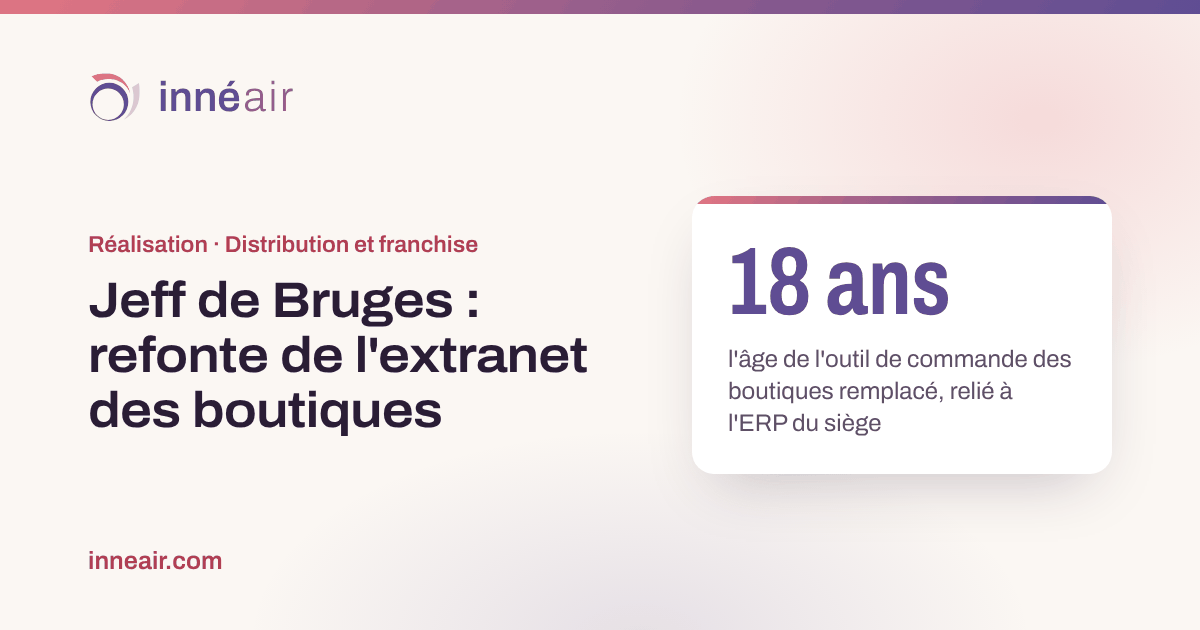
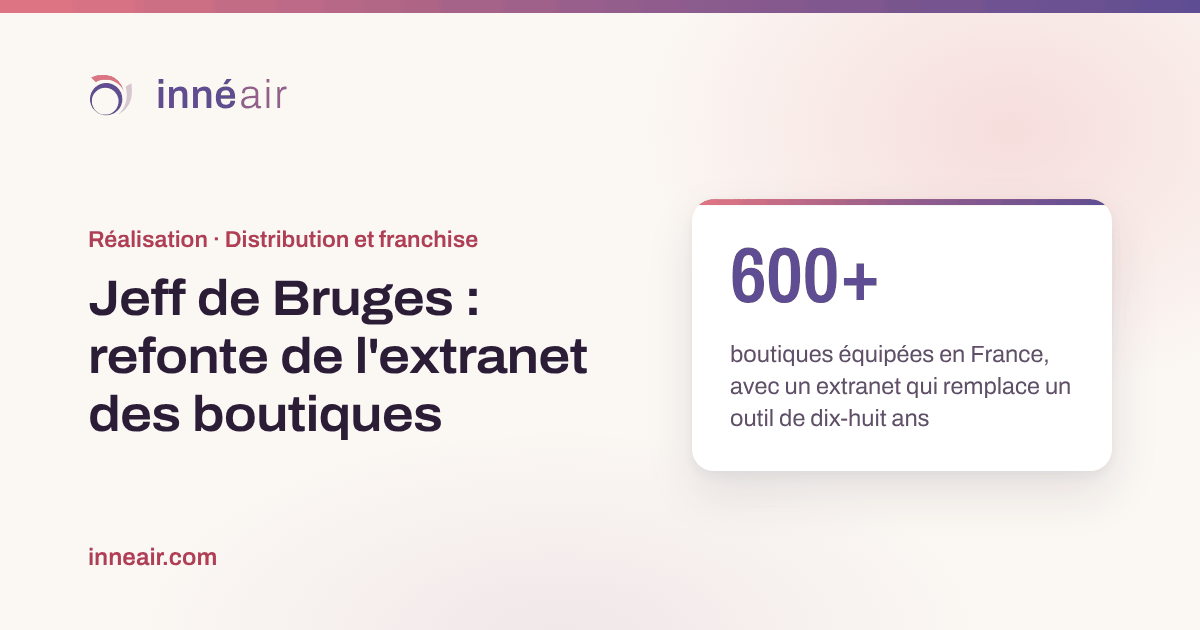
feat: align the Jeff de Bruges case with the corrected valorisation
- Role: Innéair led four developers and supervised the others, reviewed and tested
  every merge request of the team, piloted mockup integration and accounts/rights.
- The "100 stores limit lifted" claim and the announced test coverage are removed;
  key figures are now 1 command instead of 5 to set up a workstation, 3 days to run
  tests on every merge request, and a 1-day median to merge the team's branches.
- Several business rules (not all) cited in the code.
- 600+ stores put forward on the card and preview image; the lead text states that
  Numendo delivered the extranet and announces this figure.

Claude-Session: https://claude.ai/code/session_01AzLCSSsoxGkjDysbMUSmbQ

diff --git a/realisations/jeff-de-bruges-extranet-boutiques.html b/realisations/jeff-de-bruges-extranet-boutiques.html
@@ -4,18 +4,18 @@
 	<meta charset="utf-8">
 	<meta name="viewport" content="width=device-width, initial-scale=1">
 	<title>Jeff de Bruges : refonte de l'extranet des boutiques | Innéair</title>
-	<meta name="description" content="Jeff de Bruges : Innéair a écrit le cœur métier du nouvel extranet de commande des boutiques, relié à l'ERP Dynamics AX, et piloté l'équipe de l'agence Numendo.">
+	<meta name="description" content="Jeff de Bruges : Innéair a écrit le cœur métier du nouvel extranet de commande des boutiques, relié à l'ERP Dynamics AX, et dirigé son équipe de développement pour l'agence Numendo.">
 	<link rel="canonical" href="https://inneair.com/realisations/jeff-de-bruges-extranet-boutiques.html">
 	<meta property="og:type" content="article">
 	<meta property="og:locale" content="fr_FR">
 	<meta property="og:site_name" content="Innéair">
 	<meta property="og:url" content="https://inneair.com/realisations/jeff-de-bruges-extranet-boutiques.html">
 	<meta property="og:title" content="Jeff de Bruges : refondre l'extranet de commande des boutiques, relié à l'ERP du siège">
-	<meta property="og:description" content="Jeff de Bruges : Innéair a écrit le cœur métier du nouvel extranet de commande des boutiques, relié à l'ERP Dynamics AX, et piloté l'équipe de l'agence Numendo.">
+	<meta property="og:description" content="Jeff de Bruges : Innéair a écrit le cœur métier du nouvel extranet de commande des boutiques, relié à l'ERP Dynamics AX, et dirigé son équipe de développement pour l'agence Numendo.">
 	<meta property="og:image" content="https://inneair.com/images/og/jeff-de-bruges.png">
 	<meta property="og:image:width" content="1200">
 	<meta property="og:image:height" content="630">
-	<meta property="og:image:alt" content="Jeff de Bruges : un outil de commande de 18 ans remplacé, relié à l&#x27;ERP du siège">
+	<meta property="og:image:alt" content="Jeff de Bruges : plus de 600 boutiques équipées en France, avec un extranet qui remplace un outil de dix-huit ans">
 	<meta name="twitter:card" content="summary_large_image">
 	<link rel="preload" href="/assets/fonts/archivo-latin.woff2" as="font" type="font/woff2" crossorigin>
 	<link rel="stylesheet" href="/assets/css/main.css">
@@ -30,7 +30,7 @@
 				"@type": "Article",
 				"@id": "https://inneair.com/realisations/jeff-de-bruges-extranet-boutiques.html#projet",
 				"headline": "Jeff de Bruges : refondre l'extranet de commande des boutiques, relié à l'ERP du siège",
-				"description": "Jeff de Bruges : Innéair a écrit le cœur métier du nouvel extranet de commande des boutiques, relié à l'ERP Dynamics AX, et piloté l'équipe de l'agence Numendo.",
+				"description": "Jeff de Bruges : Innéair a écrit le cœur métier du nouvel extranet de commande des boutiques, relié à l'ERP Dynamics AX, et dirigé son équipe de développement pour l'agence Numendo.",
 				"inLanguage": "fr-FR",
 				"datePublished": "2026-10-28",
 				"dateModified": "2026-10-28",
@@ -87,7 +87,7 @@
 				</nav>
 				<p class="projet-titre__secteur">Distribution et franchise, 2019</p>
 				<h1>Jeff de Bruges : refondre l'extranet de commande des boutiques, relié à l'ERP du siège</h1>
-				<p class="projet-titre__chapo">Les boutiques Jeff de Bruges, en grande majorité des franchises, commandaient leur réassort sur un extranet relié à l'ERP du siège, Microsoft Dynamics AX. En 2019, cet outil avait dix-huit ans, et Jeff de Bruges en avait confié la refonte à l'agence Numendo. D'avril à août 2019, Innéair a mené le développement de la nouvelle version au sein de l'équipe de l'agence et en a écrit le cœur métier. Livré par l'agence après l'intervention d'Innéair, le nouvel extranet sert aujourd'hui à plus de 600 boutiques.</p>
+				<p class="projet-titre__chapo">Les boutiques Jeff de Bruges, en grande majorité des franchises, commandaient leur réassort sur un extranet relié à l'ERP du siège, Microsoft Dynamics AX. En 2019, cet outil avait dix-huit ans, et Jeff de Bruges en avait confié la refonte à l'agence Numendo. D'avril à août 2019, Innéair a dirigé l'équipe de développement de la nouvelle version et en a écrit le cœur métier. Numendo a livré le nouvel extranet après l'intervention d'Innéair et annonce plus de 600 boutiques équipées en France.</p>
 			</div>
 		</div>
 
@@ -96,7 +96,7 @@
 			<dl class="fiche">
 				<div><dt>Client</dt><dd>Jeff de Bruges, réseau de chocolateries, via l'agence Numendo</dd></div>
 				<div><dt>Plateforme</dt><dd>L'extranet des boutiques et du siège&nbsp;: commandes de réassort, précommandes, dragées personnalisées, suivi des commandes, saisie du chiffre d'affaires&nbsp;; échanges avec l'ERP</dd></div>
-				<div><dt>Intervention d'Innéair</dt><dd>Pilotage du développement et rôle de Scrum Master, cœur métier des commandes, intégration et livraisons en recette</dd></div>
+				<div><dt>Intervention d'Innéair</dt><dd>Direction de l'équipe de développement et rôle de Scrum Master, cœur métier des commandes, intégration et livraisons en recette</dd></div>
 				<div class="fiche__large"><dt>Technologies</dt><dd><ul class="technos">
 					<li><span>Back-end</span> PHP, Symfony, Doctrine</li>
 					<li><span>Interface</span> Twig, TypeScript, Kendo UI</li>
@@ -112,19 +112,16 @@
 						<p><strong>5&nbsp;niveaux</strong>de priorité pour calculer le prix applicable à chaque magasin</p>
 					</aside>
 					<div class="etape__texte">
-						<p>Le cahier des charges décrivait l'ancien outil et numérotait ses règles de gestion. Innéair l'a annoté&nbsp;: ses commentaires rattachaient les sections aux user stories du backlog, ou posaient à son auteur des questions de règles. <strong>Dans le code, Innéair a cité l'identifiant des règles au point où elles s'appliquent</strong>, pour relier chaque comportement à la phrase qui le justifie.</p>
+						<p>Le cahier des charges décrivait l'ancien outil et numérotait ses règles de gestion. Innéair l'a annoté&nbsp;: ses commentaires rattachaient les sections aux user stories du backlog, ou posaient à son auteur des questions de règles. <strong>Dans le code, Innéair a cité l'identifiant de plusieurs de ces règles au point où elles s'appliquent</strong>, pour relier un comportement à la phrase qui le justifie.</p>
 						<p>Innéair a écrit le tunnel des commandes de réassort&nbsp;: le choix du bon de commande, les quantités et les minimums, les brouillons, puis l'envoi groupé selon les règles d'expédition des entrepôts. Une commande envoyée garde ses propres lignes et ses propres prix. Tant qu'elle reste un brouillon, elle reprend les changements du bon et signale au magasin les articles ajoutés ou retirés, une amélioration que Jeff de Bruges avait demandée. Avec un autre développeur, Innéair a aussi écrit le calcul du prix applicable à chaque magasin&nbsp;: sur cinq niveaux de priorité, il retient le prix propre au magasin ou, à défaut, celui de son groupe, jusqu'au tarif de référence.</p>
-						<p>Innéair a écrit les vues de ces fonctionnalités, côté boutiques comme côté siège, ainsi que la navigation de l'outil, ses menus et son fil d'Ariane&nbsp;; l'équipe de l'agence en assurait l'intégration graphique.</p>
+						<p>Innéair a écrit les vues de ces fonctionnalités, côté boutiques comme côté siège, ainsi que la navigation de l'outil, ses menus et son fil d'Ariane, et pilotait l'intégration des maquettes.</p>
 					</div>
 				</section>
 
 				<section class="etape">
-					<h2>Lever les limites de l'ancien outil</h2>
-					<aside class="encart" aria-label="À retenir">
-						<p><strong>100&nbsp;magasins</strong>la limite de l'ancien outil pour transformer des précommandes en une fois</p>
-					</aside>
+					<h2>Transformer les précommandes et suivre les commandes</h2>
 					<div class="etape__texte">
-						<p>Avant les grandes opérations commerciales, les boutiques saisissaient des précommandes, que le siège transformait ensuite en commandes. L'ancien outil refusait de transformer en une fois les précommandes de plus de cent magasins, alors que le réseau en comptait plusieurs centaines. Innéair a écrit la nouvelle transformation, complète, par magasin ou par article, et <strong>l'a découpée en lots pour lever cette limite</strong>.</p>
+						<p>Avant les grandes opérations commerciales, les boutiques saisissaient des précommandes. Une fois un bon de précommande clôturé, le siège les transforme en commandes&nbsp;: <strong>Innéair a écrit cette transformation</strong>, complète, par magasin ou par article, et le serveur la traite par lots.</p>
 						<p>Innéair a aussi écrit le suivi des commandes, avec les devis, les bons de livraison, les factures et les articles manquants, ainsi que la saisie mensuelle du chiffre d'affaires des boutiques. Une boutique ne peut pas sauter de mois&nbsp;; elle peut corriger sa saisie jusqu'au 10 du mois suivant, et l'outil vérifie la cohérence entre ses montants hors taxes et toutes taxes comprises.</p>
 					</div>
 				</section>
@@ -143,11 +140,11 @@
 				<section class="etape">
 					<h2>Un environnement prêt dès le premier jour</h2>
 					<aside class="encart" aria-label="À retenir">
-						<p><strong>1&nbsp;commande</strong>pour installer un poste de développement, dès le premier jour</p>
-						<p><strong>&gt;&nbsp;85&nbsp;%</strong>de couverture des tests unitaires, annoncée en revue de sprint</p>
+						<p><strong>1&nbsp;commande</strong>pour installer un poste de développement, contre cinq la veille</p>
+						<p><strong>3&nbsp;jours</strong>pour que les tests tournent sur chaque merge request</p>
 					</aside>
 					<div class="etape__texte">
-						<p>Le socle de l'application existait depuis une semaine quand Innéair est arrivée. <strong>Le jour même, Innéair l'a rendu installable en une seule commande</strong>, avec Docker et un Makefile qui documente lui-même ses cibles. Dans la semaine, les tests tournaient sur chaque merge request. En cours de projet, Innéair a mis à niveau Symfony et PHPUnit, et l'équipe a annoncé en revue de sprint une couverture des tests unitaires supérieure à 85&nbsp;%.</p>
+						<p>Le socle de l'application existait depuis une semaine quand Innéair est arrivée. <strong>Le jour même, Innéair a ramené son installation à une seule commande</strong>, contre cinq auparavant, avec Docker et un Makefile qui documente lui-même ses cibles. Trois jours plus tard, les tests tournaient sur chaque merge request. En cours de projet, Innéair a mis à niveau Symfony et PHPUnit.</p>
 					</div>
 				</section>
 
@@ -155,10 +152,10 @@
 					<h2>Piloter une équipe répartie sur cinq sites</h2>
 					<aside class="encart" aria-label="À retenir">
 						<p><strong>5&nbsp;sites</strong>Lyon, Paris, Mulhouse, Laval et l'île Maurice, pour une seule équipe</p>
-						<p><strong>1&nbsp;jour</strong>en médiane, entre le premier commit d'une branche d'Innéair et son intégration</p>
+						<p><strong>1&nbsp;jour</strong>en médiane, entre le premier commit d'une branche de l'équipe et sa fusion dans la branche commune</p>
 					</aside>
 					<div class="etape__texte">
-						<p>Une dizaine de développeurs, venus de l'agence, d'un sous-traitant et du monde freelance, ont travaillé sur le projet. Innéair répartissait le travail, en particulier avec un développeur freelance qu'elle avait proposé à l'agence. <strong>Avant de fusionner une merge request, Innéair la relisait, puis testait la fonctionnalité</strong> pour vérifier qu'elle répondait à ce que le client attendait. Elle intégrait le travail de l'équipe et livrait les versions en recette.</p>
+						<p>Innéair dirigeait quatre développeurs et supervisait le travail des autres&nbsp;; l'équipe réunissait des développeurs de l'agence, d'un sous-traitant et du monde freelance, dont un qu'Innéair avait proposé à l'agence. Elle répartissait le travail et pilotait notamment la gestion des comptes, des profils et des droits. <strong>Innéair relisait chaque merge request de l'équipe, puis testait la fonctionnalité</strong> pour vérifier qu'elle répondait à ce que le client attendait. Elle intégrait le travail de l'équipe et livrait les versions en recette.</p>
 						<p>Comme Scrum Master, Innéair animait les revues de sprint, les démonstrations et les rétrospectives, sur des sprints de deux semaines. Chaque revue suivait le même plan&nbsp;: l'objectif vu par l'utilisateur, ce qui avait été réalisé, les points techniques, puis les points de vigilance. Chaque action décidée en rétrospective avait un responsable et une échéance, et la rétrospective suivante vérifiait qu'elle avait été tenue.</p>
 					</div>
 				</section>

diff --git a/realisations/index.html b/realisations/index.html
@@ -180,9 +180,9 @@
 						</svg>
 						<p class="case__sector">Distribution et franchise, 2019</p>
 						<h3>Jeff de Bruges</h3>
-						<p>Pour l'agence Numendo, Innéair a écrit le cœur métier du nouvel extranet de commande des boutiques, relié à l'ERP du siège, et piloté l'équipe en sprints de deux semaines. L'outil remplaçait une version de dix-huit ans.</p>
+						<p>Pour l'agence Numendo, Innéair a écrit le cœur métier du nouvel extranet de commande des boutiques, relié à l'ERP du siège, et dirigé l'équipe en sprints de deux semaines. L'outil remplaçait une version de dix-huit ans.</p>
 						<ul class="case__measures">
-							<li><strong>18 ans</strong> l'âge de l'outil de commande remplacé, relié à l'ERP du siège</li>
+							<li><strong>600+</strong> boutiques équipées en France</li>
 							<li><strong>5</strong> sites, de Mulhouse à l'île Maurice, pour une seule équipe</li>
 						</ul>
 						<p class="case__tags">Symfony, PHP, Twig, TypeScript, MySQL, SOAP</p>
